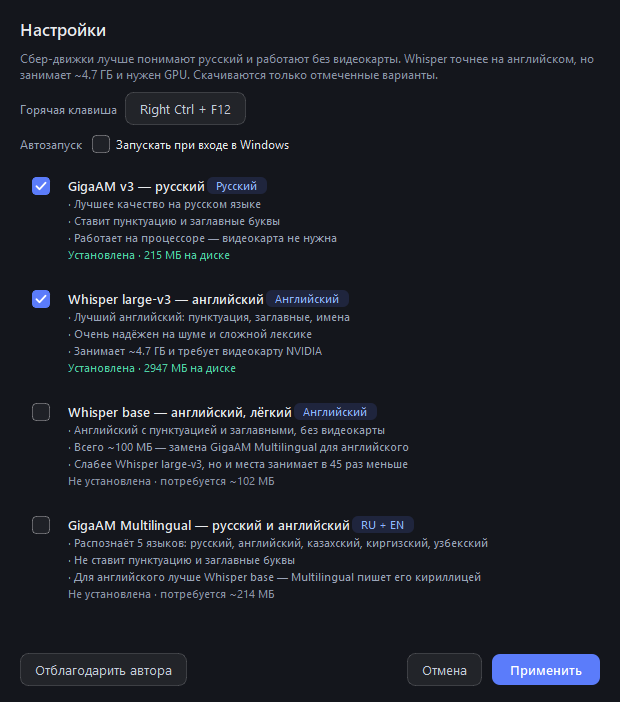
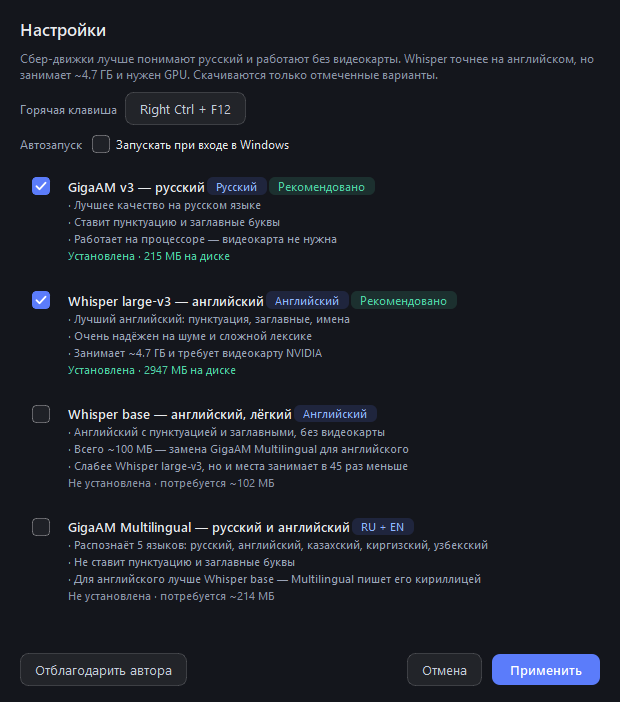
1.0.2: пометка «Рекомендовано» у GigaAM v3 и Whisper large

Changed region(s): [[0.0919, 0.5684, 0.7968, 0.8675], [0.0613, 0.3889, 0.7355, 0.5385], [0.0919, 0.2393, 0.6129, 0.3889]]

diff --git a/app/models.py b/app/models.py
@@ -50,6 +50,7 @@ class ModelSpec:
     requires: tuple[str, ...] = ()
     shown: bool = True
     badge: str = ""
+    recommended: bool = False
 
 
 MODELS: dict[str, ModelSpec] = {
@@ -74,6 +75,7 @@ MODELS: dict[str, ModelSpec] = {
             "Работает на процессоре — видеокарта не нужна",
         ),
         badge="Русский",
+        recommended=True,
     ),
     "gigaam_ml": ModelSpec(
         key="gigaam_ml",
@@ -127,6 +129,7 @@ MODELS: dict[str, ModelSpec] = {
             "vocabulary.json",
         ),
         marker="model.bin",
+        recommended=True,
         requires=("cuda",),
         bullets=(
             "Лучший английский: пунктуация, заглавные, имена",

diff --git a/app/dialogs.py b/app/dialogs.py
@@ -247,6 +247,12 @@ class ModelsDialog(QDialog):
                 "color:#8fb4ff; background:rgba(91,124,250,0.15); border-radius:6px; padding:1px 7px;"
             )
             heading.addWidget(badge)
+        if spec.recommended:
+            recommended = QLabel("Рекомендовано")
+            recommended.setStyleSheet(
+                "color:#4fd1a5; background:rgba(79,209,165,0.14); border-radius:6px; padding:1px 7px;"
+            )
+            heading.addWidget(recommended)
         heading.addStretch(1)
         column.addLayout(heading)
 

diff --git a/README.md b/README.md
@@ -1,7 +1,7 @@
 # TalkText
 
 ![Windows 10/11](https://img.shields.io/badge/Windows-10%2F11-0078D4?logo=windows&logoColor=white)
-![Version 1.0.1](https://img.shields.io/badge/version-1.0.1-blue)
+![Version 1.0.2](https://img.shields.io/badge/version-1.0.2-blue)
 ![Python 3.12](https://img.shields.io/badge/Python-3.12-3776AB?logo=python&logoColor=white)
 ![Portable](https://img.shields.io/badge/portable-no%20install-brightgreen)
 
@@ -56,7 +56,7 @@
 **Контрольная сумма** (SHA256):
 
 ```
[2 lines of base64/hex data omitted]
 ```
 
 Проверка в PowerShell:
